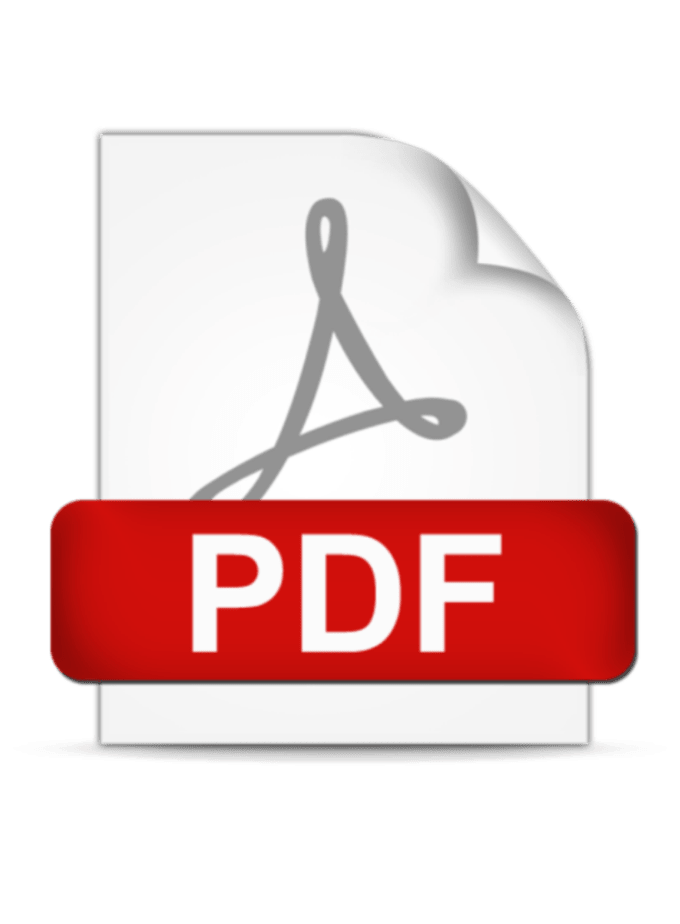
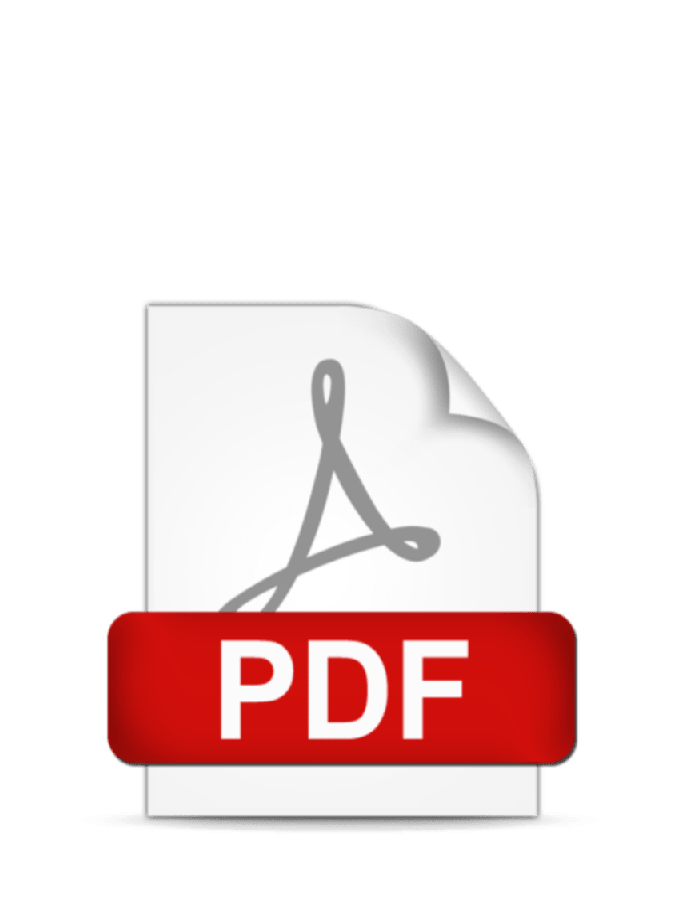
сделал фотоблок, загрузку и удаление

Changed region(s): [[0.0618, 0.1515, 0.9574, 0.9091], [0.1544, 0.1212, 0.5559, 0.1515]]

diff --git a/src/components/Equipment/EquipCard/CardComponents/PhotosBlock.tsx b/src/components/Equipment/EquipCard/CardComponents/PhotosBlock.tsx
@@ -1,11 +1,12 @@
-import { Col, Image, Row, Table } from "antd"
+import { Avatar, Button, Col, Image, Row, Space, Table, Typography } from "antd"
 import { useDispatch, useSelector } from "react-redux"
 import { getPhotosSelector } from "../../../../redux/equipmentSelectors"
 import { useEffect } from "react"
-import { getPhotos } from "../../../../redux/equipmentReducer"
+import { deletePhoto, getPhotos, uploadPhotos } from "../../../../redux/equipmentReducer"
 import Link from "antd/es/typography/Link"
+import { DeleteOutlined, FileAddOutlined } from '@ant-design/icons';
 import pdf from './../../../../img/pdfi.png'
-import s from './PhotosBlock.module.css'
+const {Text} = Typography
 
 type PhotosBlockPropsType = {
     id: string
@@ -14,28 +15,86 @@ type PhotosBlockPropsType = {
 const PhotosBlock: React.FC<PhotosBlockPropsType> = ({ id }) => {
     const dispatch = useDispatch()
     const photos = useSelector(getPhotosSelector)
-    console.log(photos)
+    const addObjectToPhotos = {
+        id: '99999',
+        idfromtable: '',
+        src: '',
+        name: ''
+    }
     useEffect(
         () => {
             //@ts-ignore
             dispatch(getPhotos(id))
         }, []
     )
+
+    useEffect(
+        () => {
+            photos.unshift(addObjectToPhotos);
+        }, [photos]
+    )
+
+    let fileInputRef: any = null
+
+    const onSelectPhoto = (e: any) => {
+        //@ts-ignore
+        dispatch(uploadPhotos(id, e.currentTarget.files[0]))
+    }
+
+    const handleDeletePhoto = (id: string, photoId: string) => {
+        //@ts-ignore
+        dispatch(deletePhoto(id, photoId))
+    }
     const photosData = photos.map ((e: any) => {
-        
         if (e.src.endsWith('.pdf')) {
-            return <Image src={pdf} preview={false} style={{width: '33.3%', padding: '3px', boxSizing: 'border-box', objectFit: 'cover', objectPosition: 'center', maxHeight: '100%'}} />
-                {/* </Link> */}
+            return  <Col key={e.id} xs={24} sm={12} md={8} lg={8} style={{padding: '4px'}}>
+                        <Text editable style={{position: 'absolute', top: '3%', left: '3%', width: '85%', zIndex: '1'}}>{e.name}</Text>
+                        <Link href={'http://10.85.10.212/ov/' + e.src}>
+                            <Image preview={false} src={pdf} height='100%' style={{objectFit: 'cover'}} />
+                        </Link>
+                        <Button size="small" danger icon={<DeleteOutlined />} shape="circle" style={{ position: 'relative', bottom: '98%', left: '85%'}} />
+                    </Col>
+        } else if (e.id === '99999') {
+            return  <Col key={e.id} xs={24} sm={12} md={8} lg={8} style={{padding: '4px'}}>
+                        <Avatar shape='square' 
+                                icon={<FileAddOutlined style={{fontSize: '150pt', marginTop: '50%'}} />} 
+                                style={{objectFit: 'cover', height: '100%', width: '100%', cursor: 'pointer'}} 
+                                onClick={() => fileInputRef.click()}
+                        />
+                        <input id="uploadPhoto" type="file" style={{display: 'none'}} onChange={onSelectPhoto} ref={(input) => (fileInputRef = input)} />
+                    </Col>
         } else {
-            return  <Image src={'http://10.85.10.212/ov/' + e.src} style={{width: '33.3%', padding: '3px', boxSizing: 'border-box', objectFit: 'cover', objectPosition: 'center', maxHeight: '100%'}} />
+            return  <Col key={e.id} xs={24} sm={12} md={8} lg={8} style={{padding: '4px'}}>
+                        <Image src={'http://10.85.10.212/ov/' + e.src} height='100%' style={{objectFit: 'cover'}} />
+                        <Button onClick={() => {handleDeletePhoto(id, e.id)}} size="small" danger icon={<DeleteOutlined />} shape="circle" style={{ position: 'relative', bottom: '98%', left: '85%'}} />
+                    </Col>
         }
+        
     })
-    
+
+    const data = [
+        {
+            value: photosData
+        }           
+    ]
+
+    const columns = [
+        {
+          dataIndex: 'value',
+          render: (value: string) => <Row gutter={8} style={{marginBottom: '100px'}}>{value}</Row>,
+        }
+    ]
     
     return (
-        <div style={{display: 'flex', flexWrap: 'wrap'}} >
-            {photosData}
-        </div>
+        <Table 
+            title={() => <Text style={{fontSize: '14pt', color: '#4096ff'}}>Фотографии</Text>} 
+            columns={columns}
+            dataSource={data}
+            bordered
+            pagination={false} // Скрыть пагинацию, если есть
+            showHeader={false} // Скрыть заголовки, если есть
+            rowKey='value'
+        />
     )
 }
 

diff --git a/src/api/equipmentAPI.ts b/src/api/equipmentAPI.ts
@@ -62,5 +62,22 @@ export const equipmentAPI = {
         return instance.post(`getPhotos.php`, data).then (response => {
             return response.data
         })
-    }
+    },
+    uploadPhotos (id: string, file: any) {
+        let formData = new FormData()
+        formData.append("id", id)
+        formData.append("image", file)
+        formData.append("table", "equipment")
+        return instance.post(`uploadPhotos.php`, formData, { headers: {'Content-Type': 'multipart/form-data'}}).then (response => {
+            return response.data
+        })
+    },
+    deletePhoto (id: string, photoId: string) {
+        let formData = new FormData()
+        formData.append("id", id)
+        formData.append("photoId", photoId)
+        return instance.post(`deletePhoto.php`, formData, {}).then (response => {
+            return response.data
+        })
+    },
 }

diff --git a/src/redux/equipmentReducer.ts b/src/redux/equipmentReducer.ts
@@ -113,6 +113,16 @@ export const getPhotos = (id: string) => async (dispatch: any) => {
     dispatch(setPhotosData(data.photos))
 }
 
+export const uploadPhotos = (id: string, file: any) => async (dispatch: any) => { 
+    let data = await equipmentAPI.uploadPhotos(id, file)
+    dispatch(setPhotosData(data.photos))
+}
+
+export const deletePhoto = (id: string, photoId: string) => async (dispatch: any) => { 
+    let data = await equipmentAPI.deletePhoto(id, photoId)
+    dispatch(setPhotosData(data.photos))
+}
+
 const pushEquipmentData = (data: any) => {
     return {
         type: 'PUSH_EQ_DATA',

diff --git a/src/components/Equipment/EquipCard/CardComponents/CardReestr.tsx b/src/components/Equipment/EquipCard/CardComponents/CardReestr.tsx
@@ -94,7 +94,7 @@ const CardReestr: React.FC<CardReestrPropsType> = ({id, isLoading}) => {
             bordered
             title={() => <Text style={{fontSize: '14pt', color: '#4096ff'}}>Перечень валидационных работ</Text>}
             pagination={false} // Скрыть пагинацию, если есть
-            style={{marginBottom: '80px'}}
+            style={{marginBottom: '30px'}}
             rowKey='id'
         />
     )

diff --git a/src/components/Footer/Footer.tsx b/src/components/Footer/Footer.tsx
@@ -2,7 +2,7 @@ import { Footer } from "antd/es/layout/layout";
 
 const CustomFooter: React.FC = () => {
     return (
-        <Footer style={{position: 'fixed', bottom: '0px', width: '100%' }}>
+        <Footer style={{position: 'fixed', bottom: '0px', width: '100%', zIndex: '2' }}>
             Информационная система ТОО "КФК" v 2.1 © Ввод в эксплуатацию: 14.07.2022 г.
         </Footer>
     )
